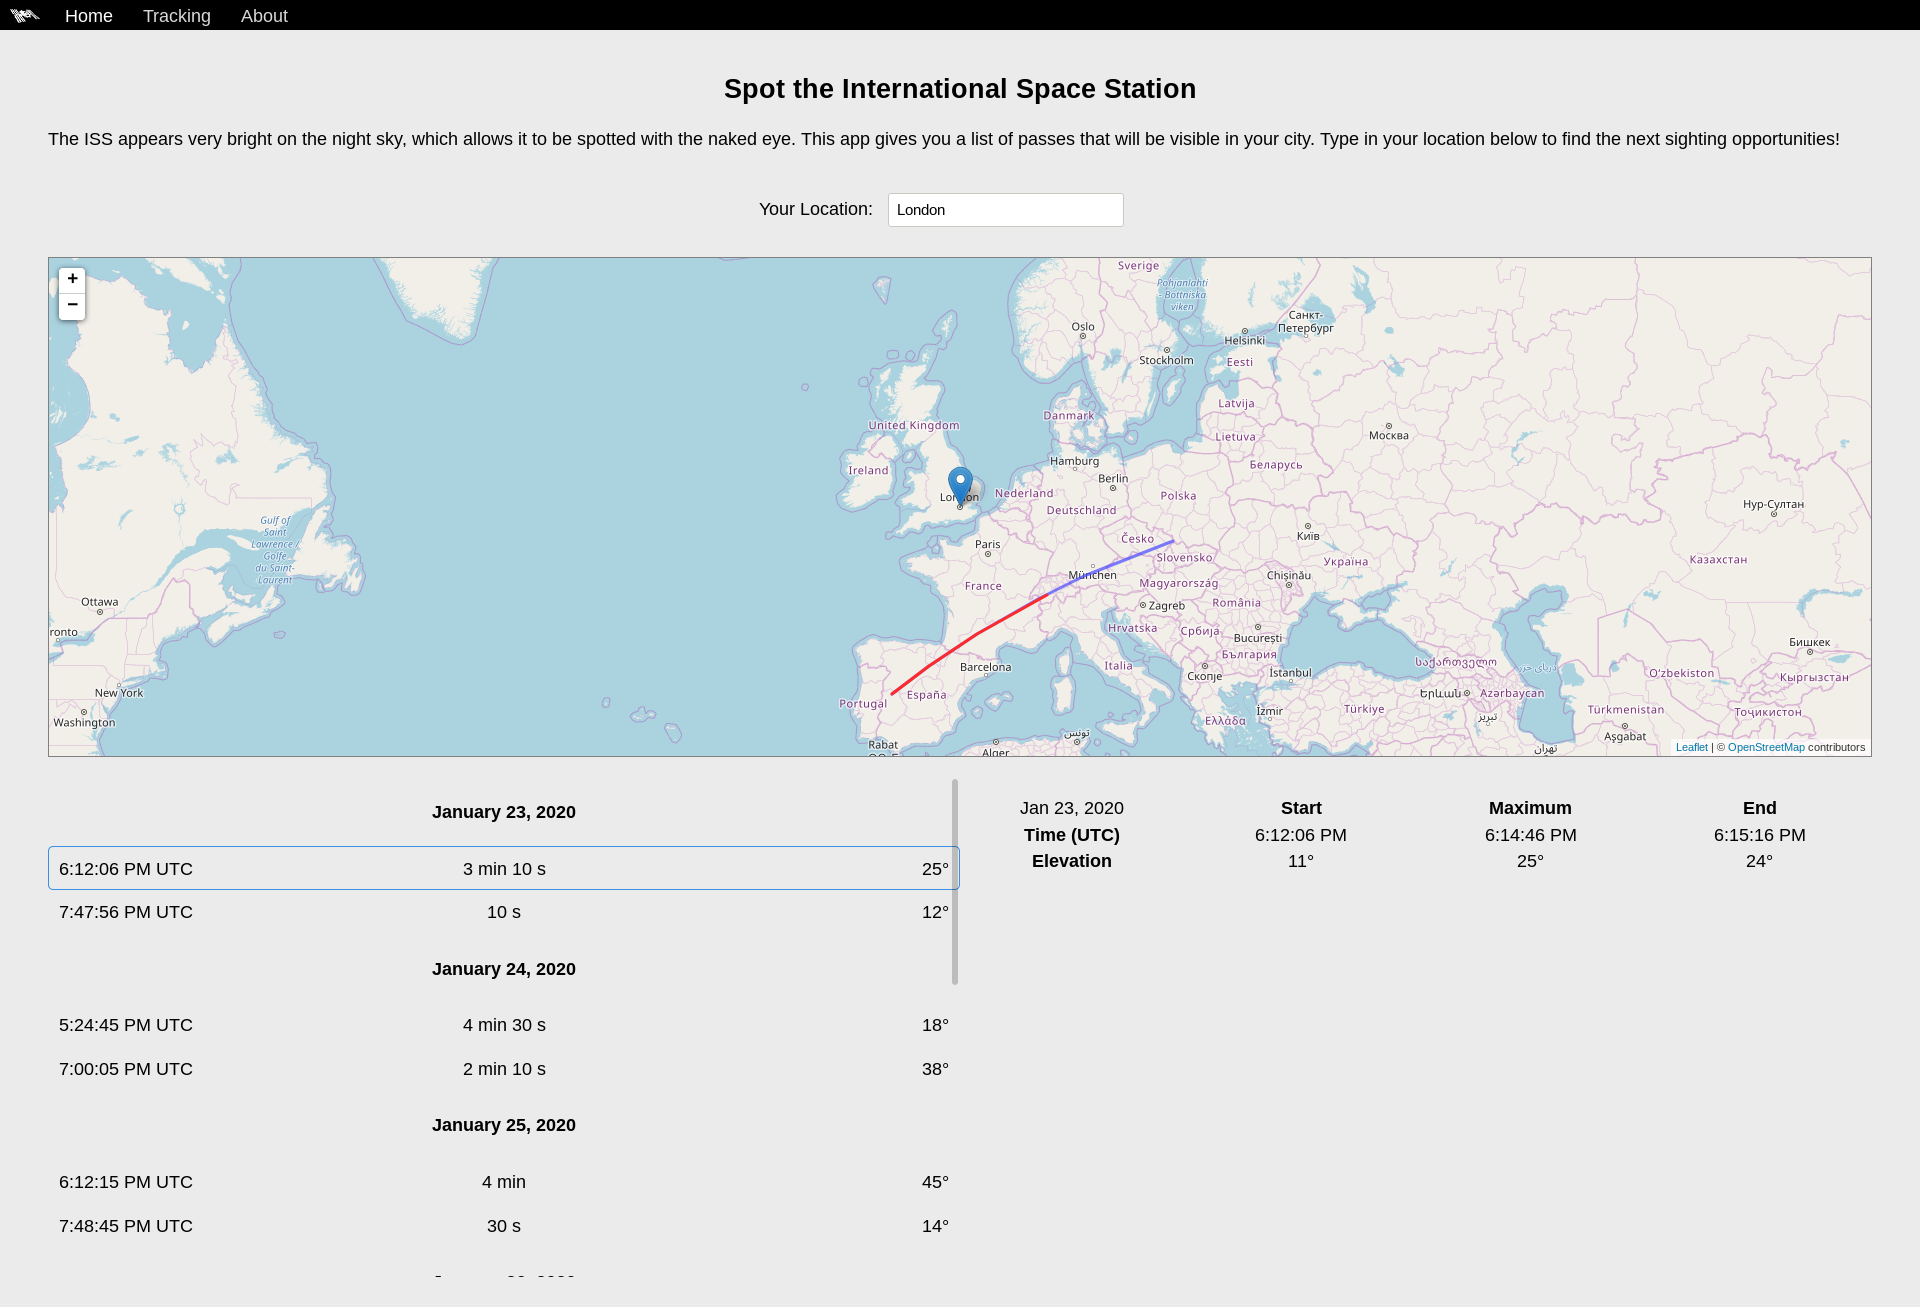
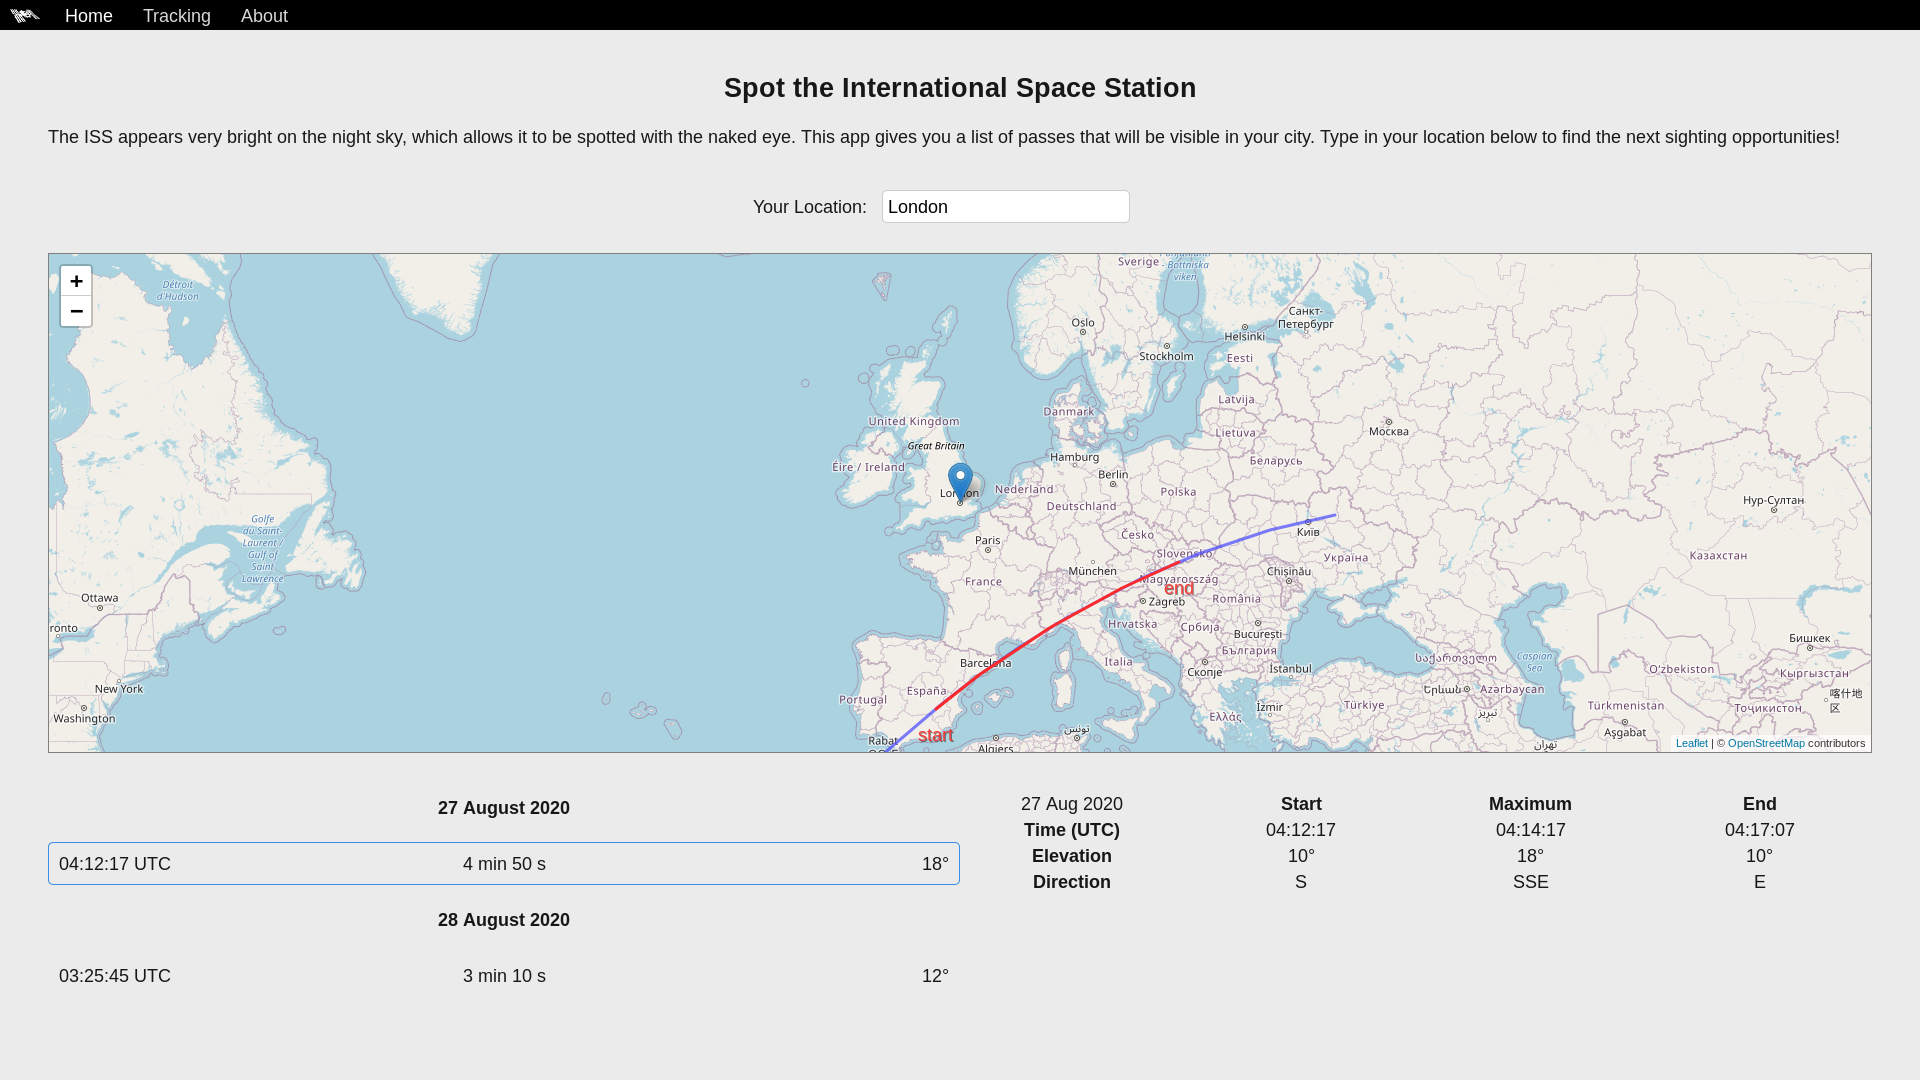
Update screenshots

diff --git a/README.md b/README.md
@@ -3,6 +3,8 @@ Track the International Space Station and get pass predictions.
 
 ![screenshot](screenshot.png?raw=true)
 
+![screenshot 2](screenshot2.png?raw=true)
+
 ISS Viewer predicts visible ISS passes for a given location and displays them on a map. You can also view the station's position in real time.
 
 ## Dependencies
